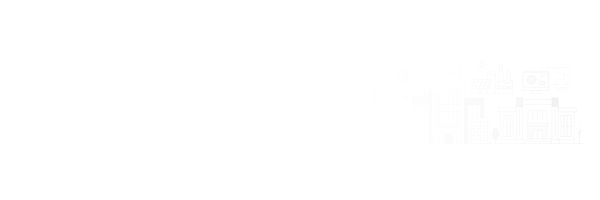
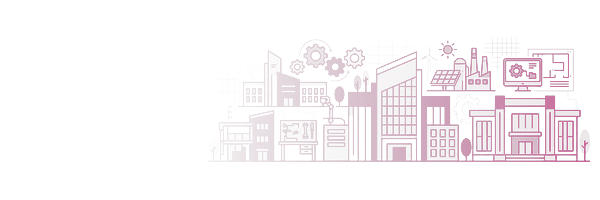
Unify cards into brand theme and boost watermark artwork radiance

Changed region(s): [[0.39, 0.21, 0.99, 0.81]]

diff --git a/src/app/features/landing/components/about-section/about-section.component.ts b/src/app/features/landing/components/about-section/about-section.component.ts
@@ -160,7 +160,7 @@ export interface AboutStatCard {
               <img 
                 [src]="card.bgImage" 
                 alt="" 
-                class="absolute inset-0 w-full h-full object-cover object-right pointer-events-none select-none opacity-85 z-0" 
+                class="absolute inset-0 w-full h-full object-cover object-right pointer-events-none select-none opacity-95 z-0" 
                 aria-hidden="true"
               />
 
@@ -180,7 +180,7 @@ export interface AboutStatCard {
                 <span class="text-[13px] sm:text-[13.5px] font-bold leading-none tracking-tight mb-1" [ngClass]="card.textColorClass">
                   {{ card.label }}
                 </span>
-                <span class="text-[26px] sm:text-[28px] lg:text-[30px] font-black leading-tight tracking-tight tabular-nums" [ngClass]="card.textColorClass">
+                <span class="text-[26px] sm:text-[28px] lg:text-[30px] font-black leading-tight tracking-tight tabular-nums text-[#920129]">
                   {{ card.count }}
                 </span>
               </div>
@@ -221,47 +221,47 @@ export class AboutSectionComponent implements AfterViewInit, OnDestroy {
       icon: 'layers',
       bgImage: '/card-bg-schemes.png',
       waveSrc: '/stat-wave-pink.png',
-      cardClass: 'bg-white hover:bg-[#FFFDFE] border border-[#F5E1EB] hover:border-[#D73389]/40 shadow-xs hover:shadow-md',
-      iconBoxClass: 'bg-[#FFF5F8] border border-[#F8D5E3]',
-      iconColorClass: 'text-[#9F1239]',
-      dividerClass: 'bg-[#F3D5E2]',
-      textColorClass: 'text-[#9F1239]'
+      cardClass: 'bg-white hover:bg-[#FFFDFE] border border-[#F3D5E2] hover:border-[#D73389] shadow-xs hover:shadow-md transition-all duration-300',
+      iconBoxClass: 'bg-[#FDF2F7] border border-[#F8D5E3]',
+      iconColorClass: 'text-[#D73389]',
+      dividerClass: 'bg-[#F0CBD8]',
+      textColorClass: 'text-[#D73389]'
     },
     {
       label: 'Courses',
       count: '425',
       icon: 'graduation-cap',
       bgImage: '/card-bg-courses.png',
-      waveSrc: '/stat-wave-blue.png',
-      cardClass: 'bg-white hover:bg-[#FBFDFF] border border-[#E0E7FF] hover:border-[#224599]/40 shadow-xs hover:shadow-md',
-      iconBoxClass: 'bg-[#F0F7FF] border border-[#BFDBFE]',
-      iconColorClass: 'text-[#224599]',
-      dividerClass: 'bg-[#BFDBFE]',
-      textColorClass: 'text-[#224599]'
+      waveSrc: '/stat-wave-pink.png',
+      cardClass: 'bg-white hover:bg-[#FFFDFE] border border-[#F3D5E2] hover:border-[#D73389] shadow-xs hover:shadow-md transition-all duration-300',
+      iconBoxClass: 'bg-[#FDF2F7] border border-[#F8D5E3]',
+      iconColorClass: 'text-[#D73389]',
+      dividerClass: 'bg-[#F0CBD8]',
+      textColorClass: 'text-[#D73389]'
     },
     {
       label: 'Training Partners',
       count: '1,280',
       icon: 'school',
       bgImage: '/card-bg-training-partners.png',
-      waveSrc: '/stat-wave-green.png',
-      cardClass: 'bg-white hover:bg-[#FBFFFD] border border-[#DCFCE7] hover:border-[#05831F]/40 shadow-xs hover:shadow-md',
-      iconBoxClass: 'bg-[#F0FDF4] border border-[#BBF7D0]',
-      iconColorClass: 'text-[#05831F]',
-      dividerClass: 'bg-[#BBF7D0]',
-      textColorClass: 'text-[#05831F]'
+      waveSrc: '/stat-wave-pink.png',
+      cardClass: 'bg-white hover:bg-[#FFFDFE] border border-[#F3D5E2] hover:border-[#D73389] shadow-xs hover:shadow-md transition-all duration-300',
+      iconBoxClass: 'bg-[#FDF2F7] border border-[#F8D5E3]',
+      iconColorClass: 'text-[#D73389]',
+      dividerClass: 'bg-[#F0CBD8]',
+      textColorClass: 'text-[#D73389]'
     },
     {
       label: 'Users',
       count: '25,640',
       icon: 'users',
       bgImage: '/card-bg-users.png',
-      waveSrc: '/stat-wave-purple.png',
-      cardClass: 'bg-white hover:bg-[#FDFBFF] border border-[#EDE9FE] hover:border-[#6B21A8]/40 shadow-xs hover:shadow-md',
-      iconBoxClass: 'bg-[#FAF5FF] border border-[#DDD6FE]',
-      iconColorClass: 'text-[#6B21A8]',
-      dividerClass: 'bg-[#DDD6FE]',
-      textColorClass: 'text-[#6B21A8]'
+      waveSrc: '/stat-wave-pink.png',
+      cardClass: 'bg-white hover:bg-[#FFFDFE] border border-[#F3D5E2] hover:border-[#D73389] shadow-xs hover:shadow-md transition-all duration-300',
+      iconBoxClass: 'bg-[#FDF2F7] border border-[#F8D5E3]',
+      iconColorClass: 'text-[#D73389]',
+      dividerClass: 'bg-[#F0CBD8]',
+      textColorClass: 'text-[#D73389]'
     }
   ];
 
